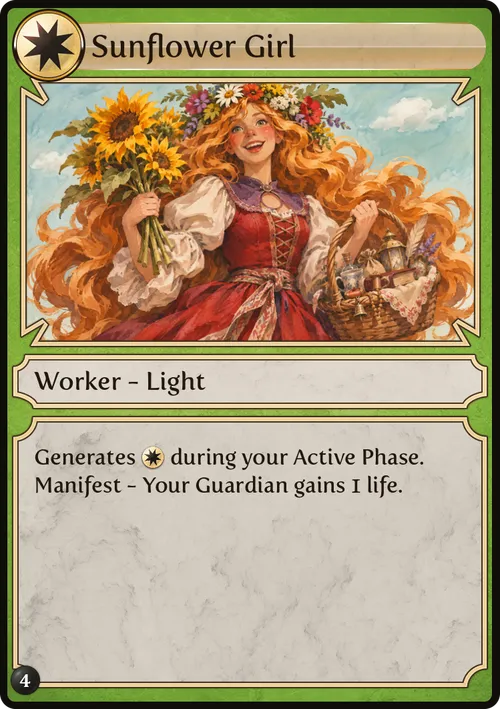
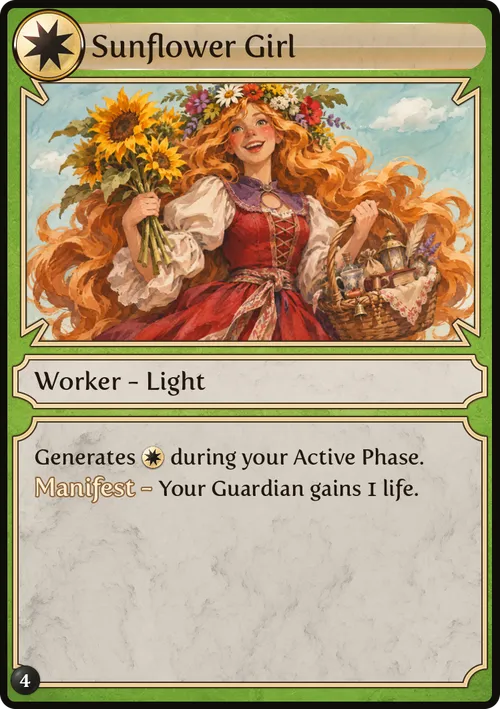
Sync with game build 1001 (Alpha 0.3.185); new Deck Builder screenshot and news post
Claude-Session: https://claude.ai/code/session_01KUimmQkprUjTndgdcKreKM

Changed region(s): [[0.06, 0.6516, 0.84, 0.7137]]

diff --git a/src/content/news/2026-11-new-deck-builder.md b/src/content/news/2026-11-new-deck-builder.md
@@ -1,0 +1,48 @@
+---
+title: A new Deck Builder, and a smoother match
+description: "The Deck Builder is rebuilt from scratch with formats and a playtest, and matches feel far smoother: drag and drop, live card faces and cards that fly."
+date: 2026-11-16
+category: Update
+image: /images/client/deck-builder.webp
+---
+
+Two big changes landed in the [client](/play/) this week: a completely new Deck Builder, and a match screen that finally feels smooth.
+
+## The new Deck Builder
+
+The Deck Builder now looks like the rest of the game, and it works differently too:
+
+- **One scrolling grid** of cards instead of nearly 200 pages. Scroll with the mouse wheel through whatever your filters leave.
+- **One filter bar:** search, the eleven element orbs, the cost coins, a type list, the rarity balls, the format and the sort order. Active filters show as chips you can remove one by one.
+- **Copy counters:** under every card, a diamond for each copy allowed, lit for each copy in your deck.
+- **Your deck on the right:** your Guardian's art as a banner with the deck's name, tabs for the deck, sideboard and Treasures, the cost curve and the deck listed by type.
+
+<figure>
+  <img src="/images/news/deck-panel.webp" alt="The deck panel: Leonhart's art as a banner, the Deck, Sideboard and Treasures tabs, format badges, the cost curve and the deck listed by type" width="544" height="1008" loading="lazy" />
+  <figcaption>The deck panel, with the format badges and the cost curve.</figcaption>
+</figure>
+
+## Formats
+
+Decks can now be checked against three formats:
+
+- **Standard:** the normal rules.
+- **Singleton:** one copy of each card. Cards without a copy limit, like the basic Workers, are not affected.
+- **Pauper:** Commons only. Guardians and Treasures have no rarity and are always allowed.
+
+Badges on your deck show which formats it is legal in, and say why when it isn't. Pick a format in the filter bar and the cards it does not allow are greyed out.
+
+## Playtest
+
+Not sure your deck works? **Playtest** gives you a sample opening hand from the deck as it is right now, with Draw and New hand buttons, or starts a game against the computer and brings you straight back to the builder afterwards. Unsaved changes are included.
+
+## A smoother match
+
+The last dozen builds went into how a match feels:
+
+- **Drag and drop:** drag a card from your hand onto the board to play it. Clicking still works.
+- **Cards fly as themselves:** a drawn card lifts off your deck and lands in your hand, a played card flies to the Stack, its field or your Workers, a discarded card to your graveyard. Online, you see your opponent's cards move too.
+- **Live card faces:** every card is now drawn by the game from its art and data, so a changed cost or stat shows on the card itself, everywhere.
+- **Far fewer hitches:** redrawing the screen after an action took around 30 ms and now takes about 11. A frame rate counter (F3, or "Show FPS" in the Graphics options) shows how your machine is doing.
+
+All the details are in the [patch notes](/play/#patch-notes).
